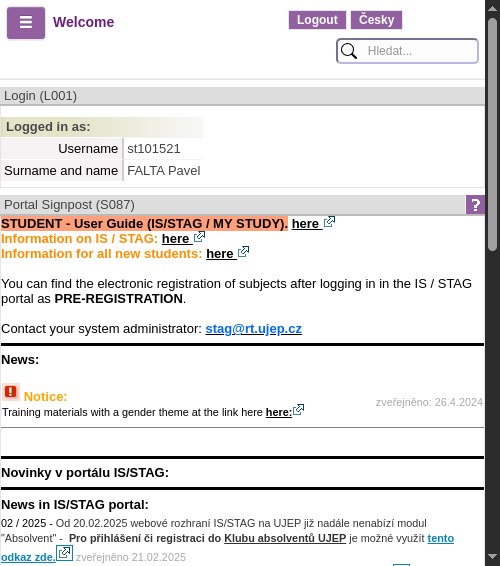
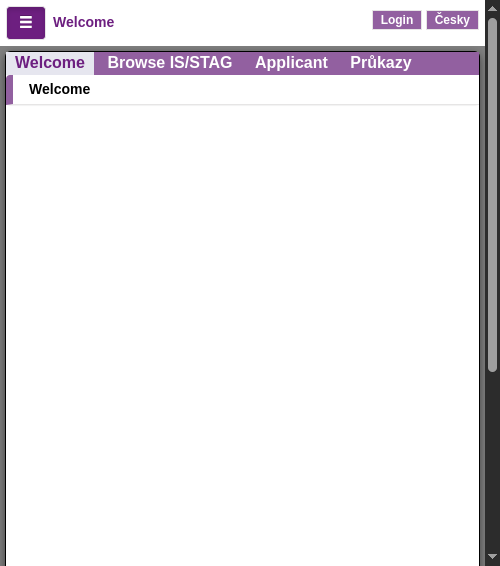
Add handling for burger menu interaction and update error.png asset

Changed region(s): [[0.0, 0.0, 1.0, 1.0], [0.78, 0.9912, 0.81, 1.0]]

diff --git a/TSW/cv7.py b/TSW/cv7.py
@@ -43,7 +43,13 @@ try:
     driver.get("https://portal.ujep.cz/")
     driver.set_window_size(500, 800)
 
-    
+    try:
+        burger_menu = driver.find_element(By.ID, "mobile_menu_display_btn")
+        burger_menu.click()
+        print("Burger menu found and clicked.")
+        time.sleep(3)  
+    except Exception as e:
+        print("Burger menu not found or not clickable:")
 
     end = perf_counter()
     print(f"Načtení stránky trvalo {end - start:.2f} sekund.")
